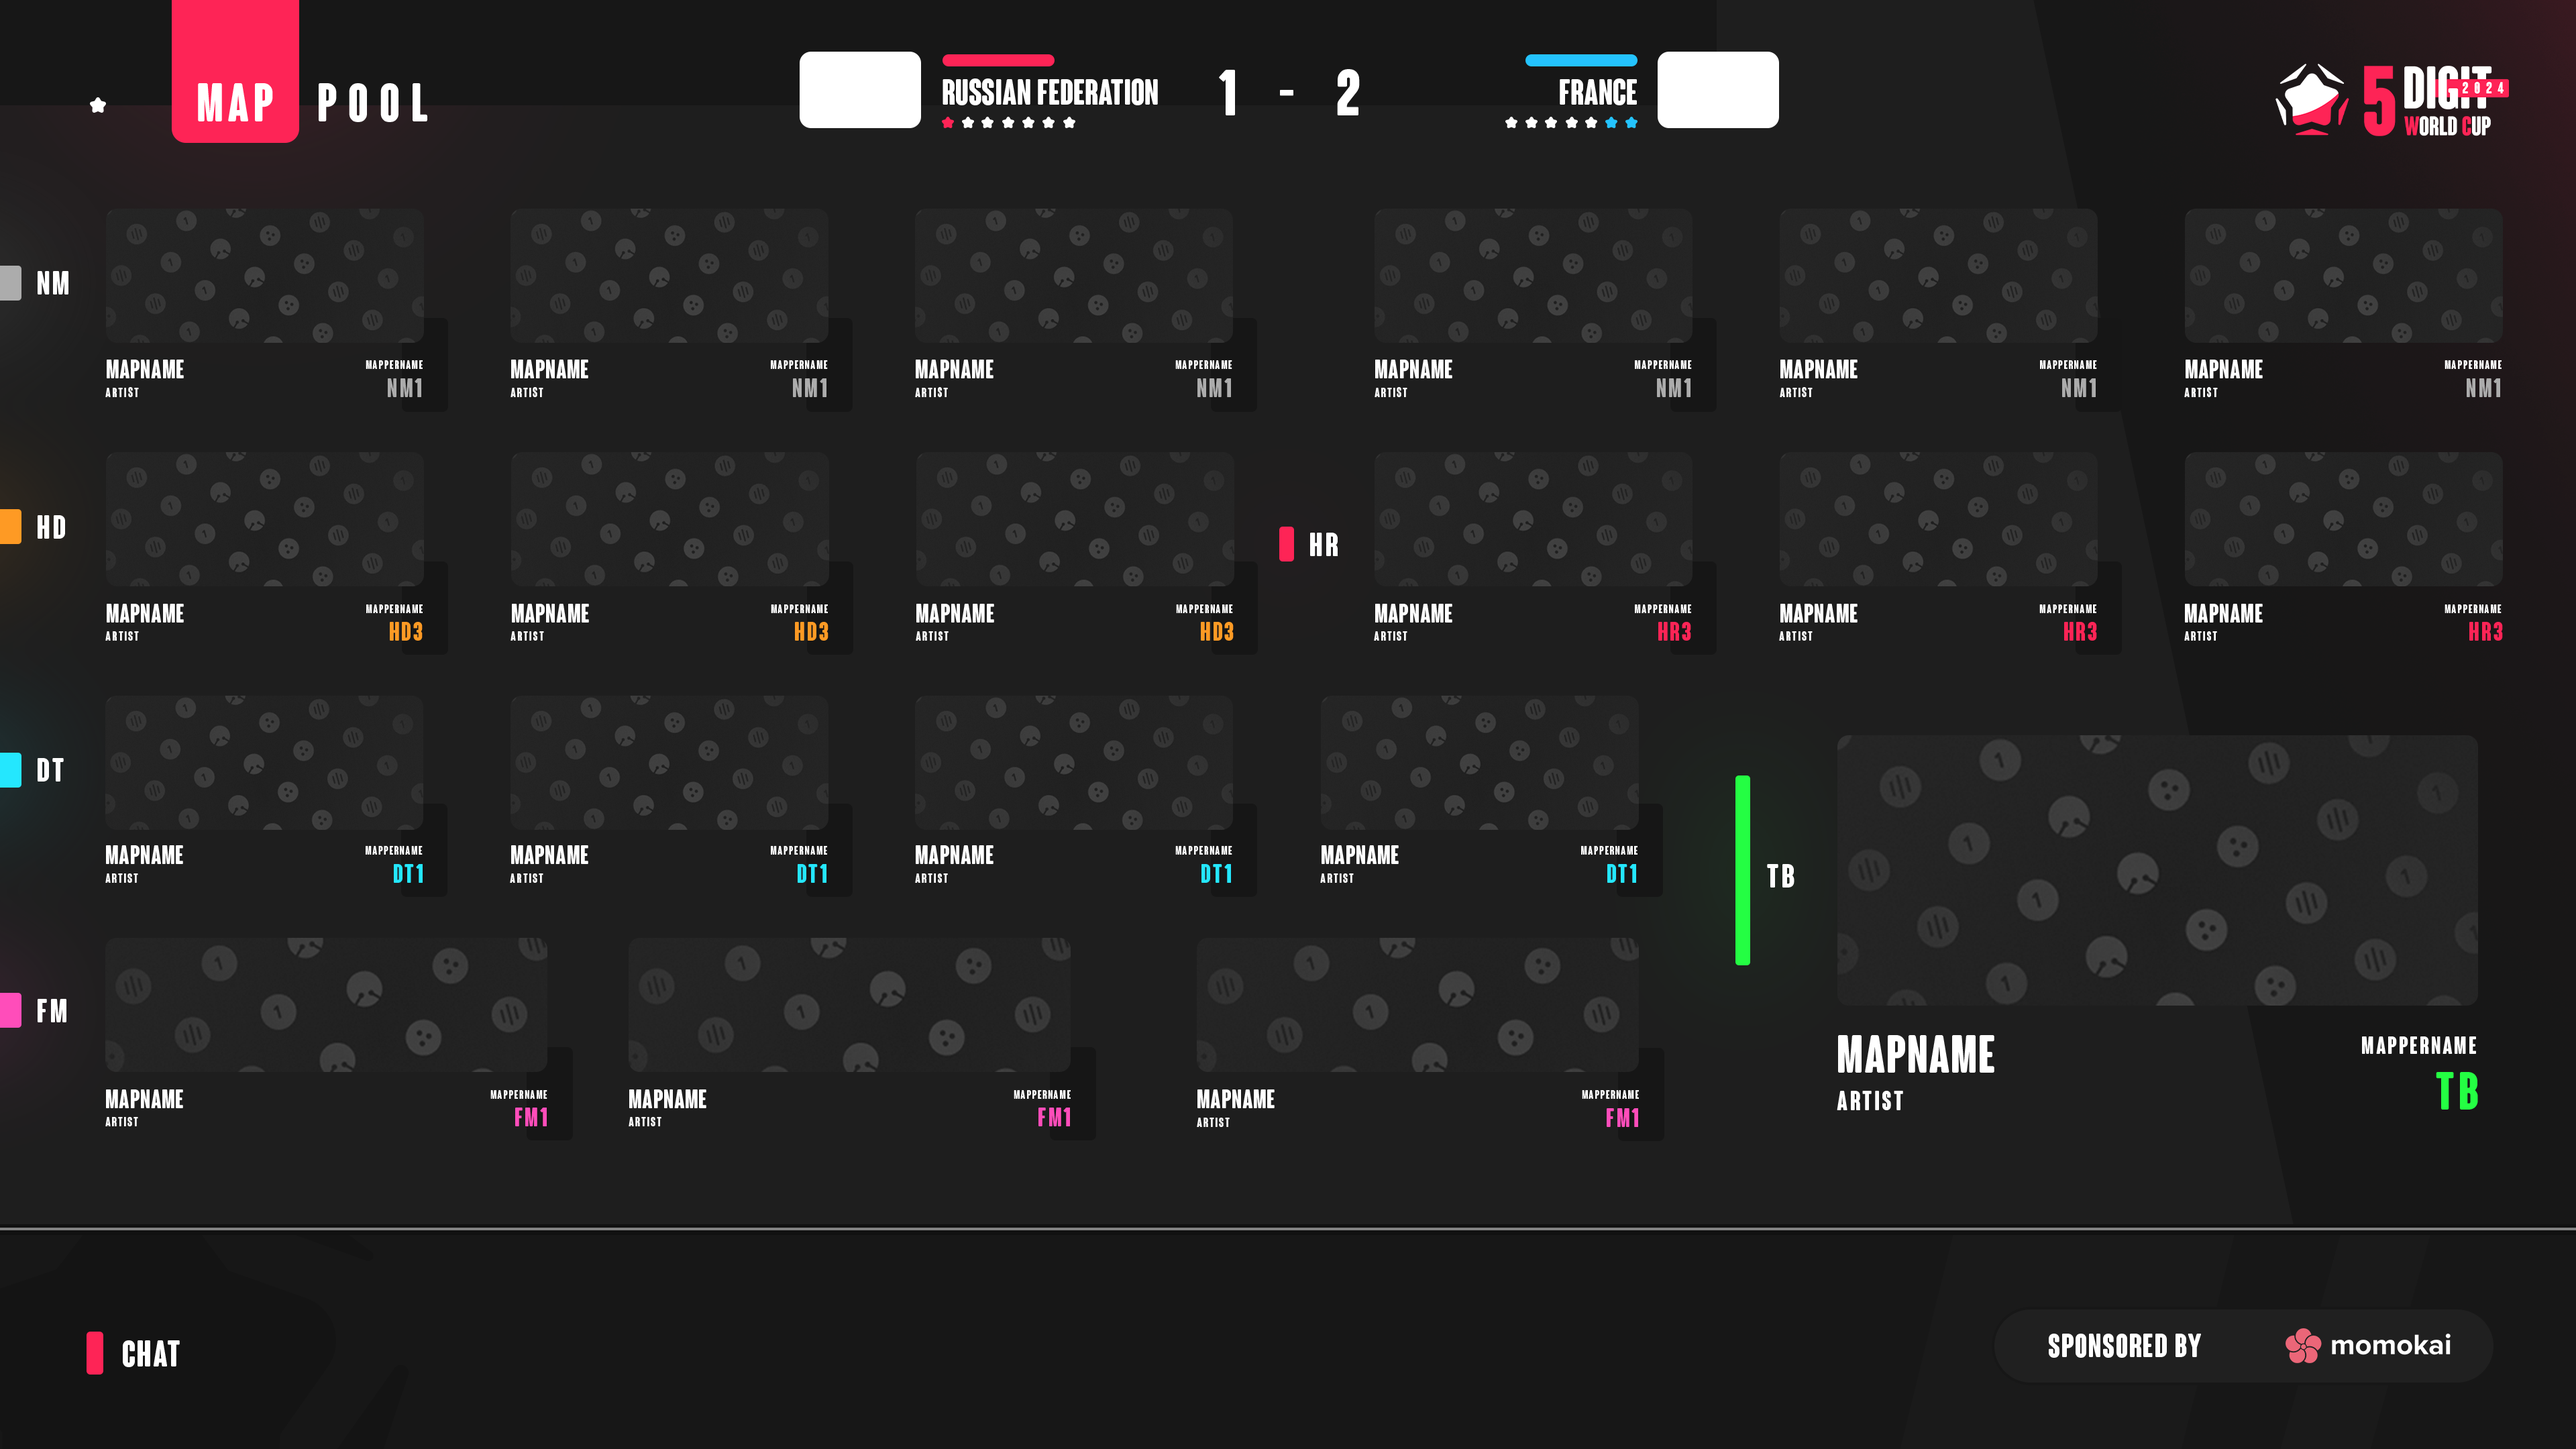
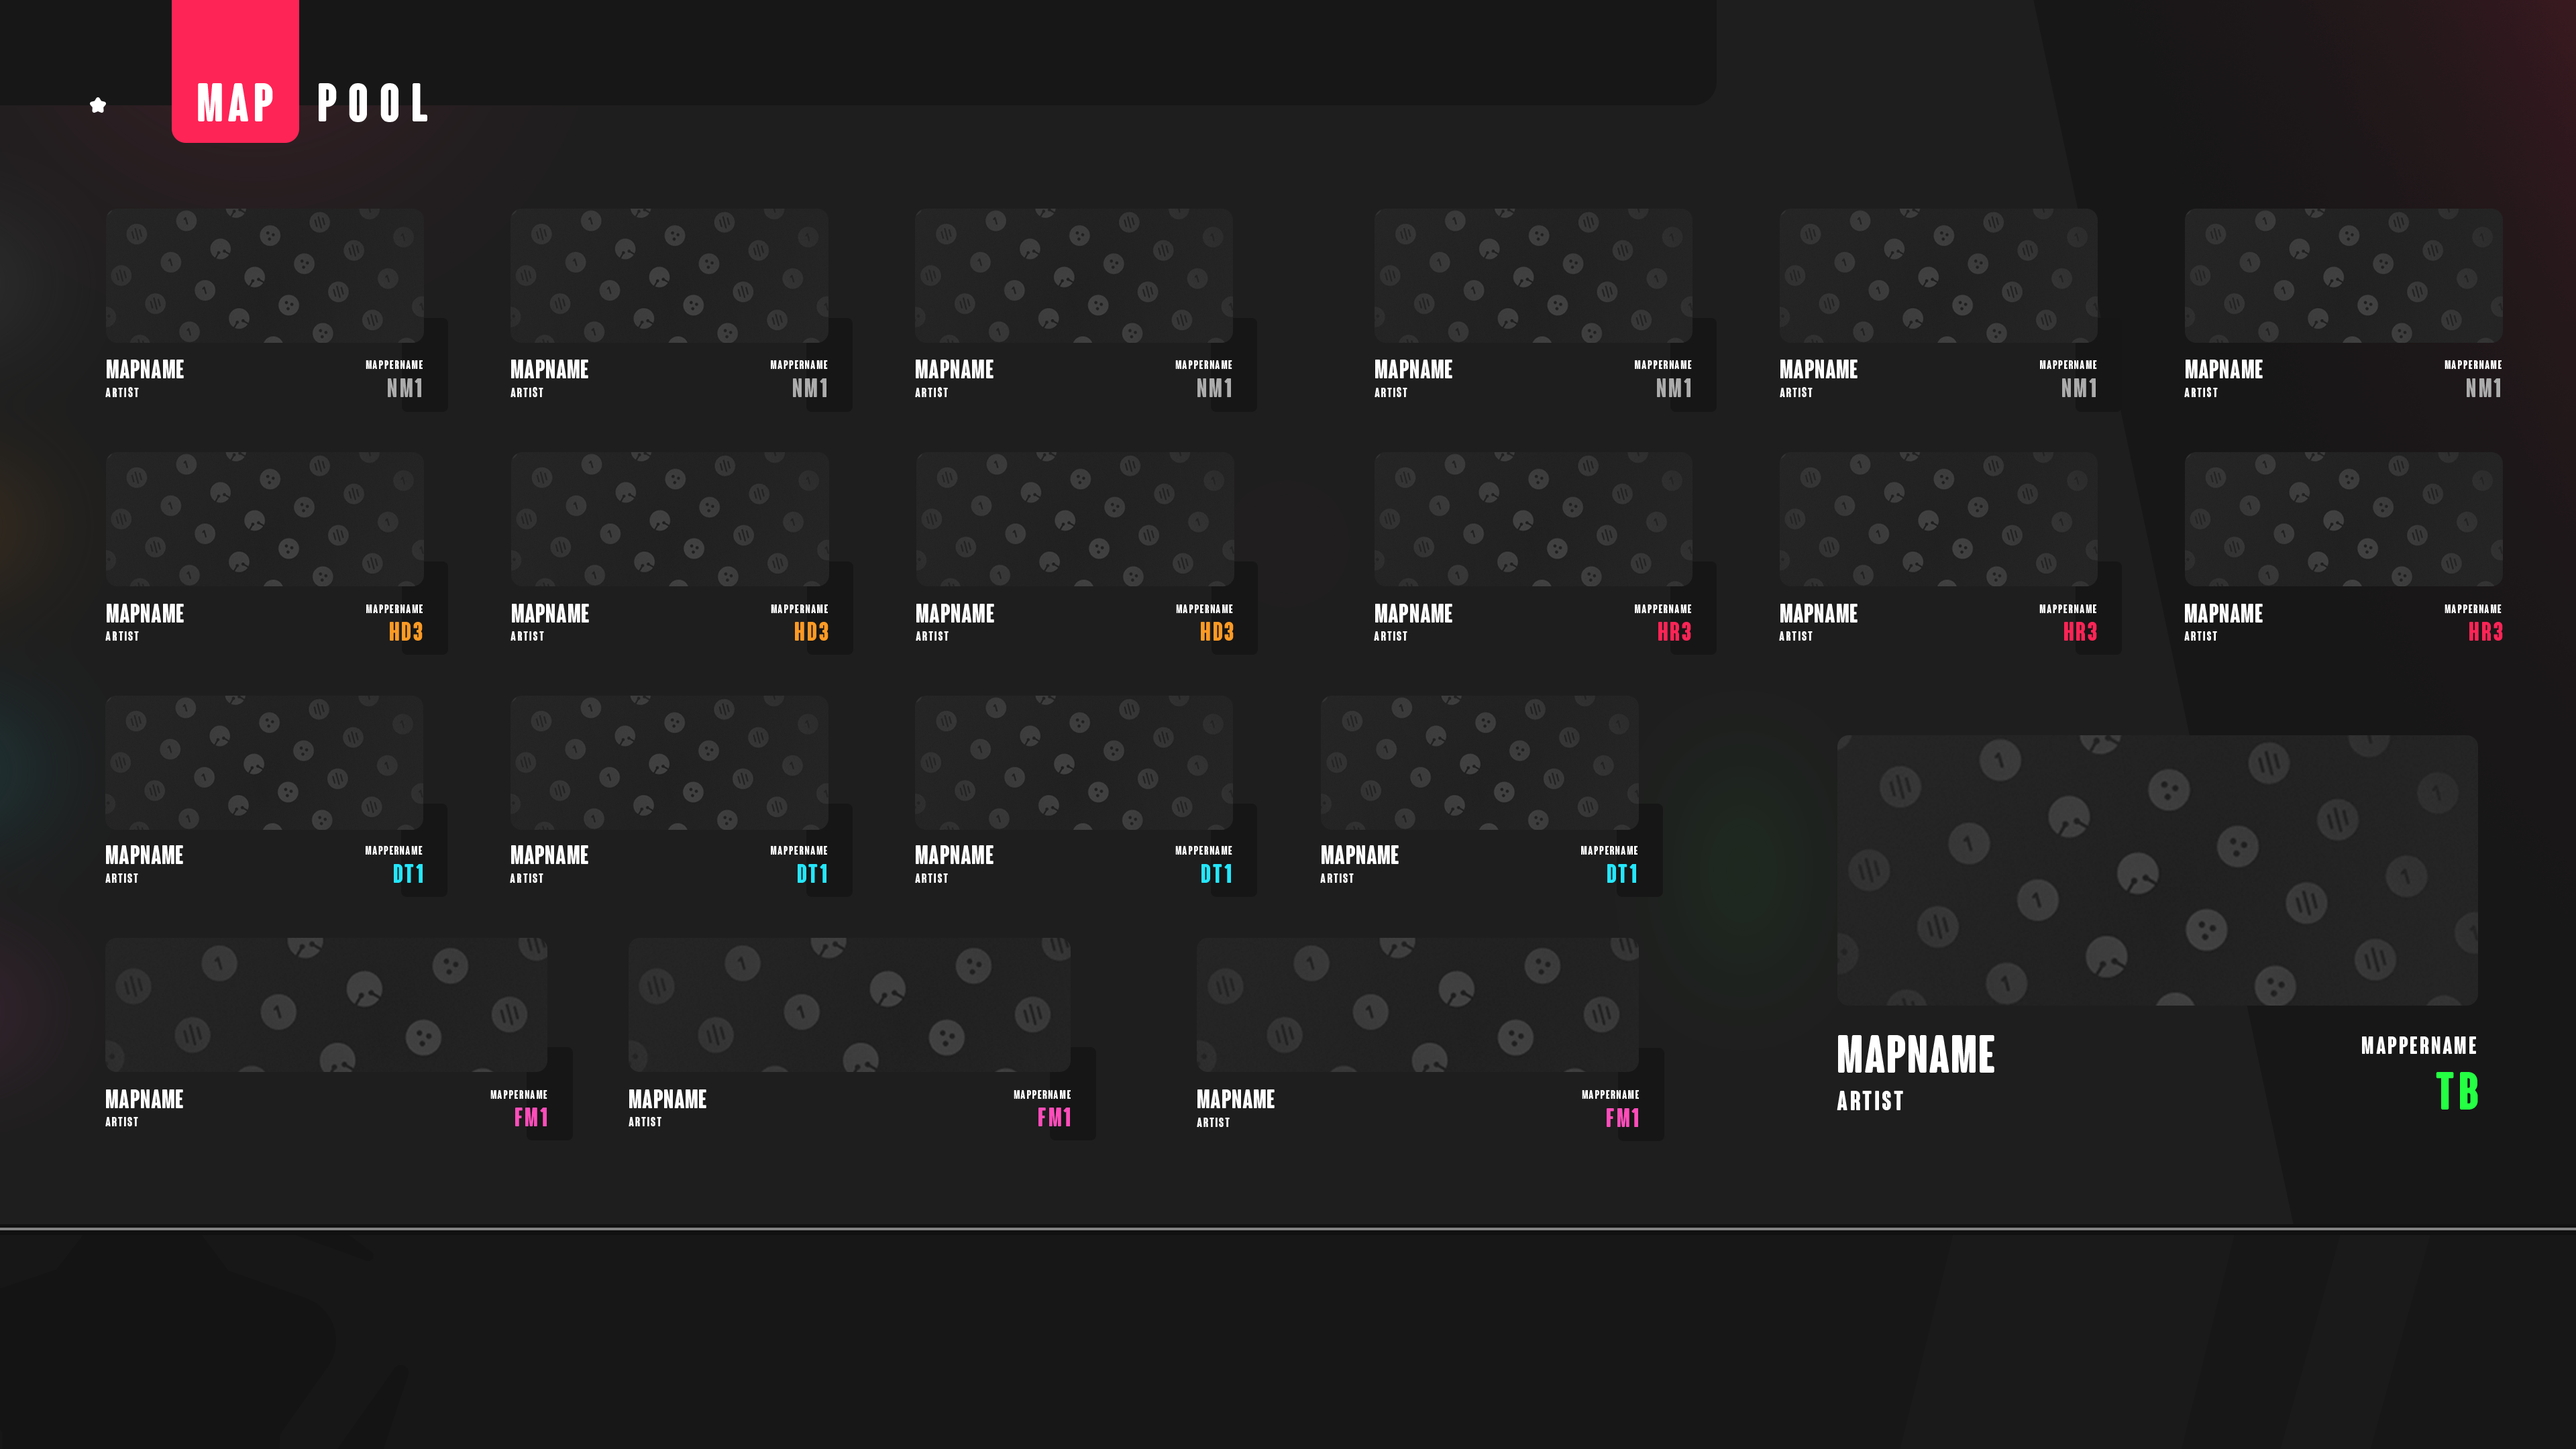
Add mod header and rectangles

diff --git a/pool/css/style.css b/pool/css/style.css
@@ -1,3 +1,12 @@
+:root {
+    --NMColour: rgb(172,172,172);
+    --HDColour: rgb(254,154,36);
+    --HRColour: rgb(254,36,86);
+    --DTColour: rgb(36,231,254);
+    --FMColour: rgb(255,77,186);
+    --TBColour: rgb(36,254,67);
+}
+
 @font-face {
     font-family: "Coluna Rounded";
     src: url("../../shared/fonts/Coluna_Rounded.otf")
@@ -15,17 +24,20 @@
 
 /* ----- TOP SECTION ----- */
 /* --- Team Sections --- */
+/* Team Section */
 .teamSection {
     position: absolute; top: 77px;
     width: 550px; height: 125px;
 }
 #redTeam { left: 1192px; }
 #blueTeam { right: 1192px; }
+/* Team Flag */
 .teamFlag {
     width: 181px; height: 114px;
     border-radius: 15px;
 }
 #blueTeamFlag { position: absolute; top: 0; right: 0; }
+/* Team Bar */
 .teamBar {
     position: absolute; top: 4px;
     width: 168px; height: 18px;
@@ -38,11 +50,13 @@
     right: 212px;
     background-color: rgb(36, 196, 254);
 }
+/* Team Name */
 .teamName {
     position: absolute; top: 32px; 
     font-size: 53px;
     letter-spacing: 0.05px;
 }
+/* Team Stars */
 .teamStars { position: absolute; top: 97px; }
 .teamStars > * { margin-right: 9.5px;}
 #redTeamStars { left: 212px; }
@@ -59,6 +73,66 @@
     width: 343px;
 }
 
+
+/* ----- MAPPOOL SECTION ----- */
+#mappool {
+    position: absolute; top: 300px;
+    width: 100%; height: 1480px;
+}
+/* --- Rectangles ---- */
+#modHeaderRectangles > * { position: absolute; }
+.leftSideModRectangle {
+    left: 0;
+    width: 32px; height: 53px;
+    border-radius: 0px 5px 5px 0px;
+}
+#NMRectangle {
+    top: 95px; 
+    background-color: var(--NMColour);
+}
+#HDRectangle {
+    top: 458px;
+    background-color: var(--HDColour);
+}
+#HRRectangle {
+    top: 485px; left: 1906px;
+    width: 24px; height: 53px;
+    background-color: var(--HRColour);
+    border-radius: 5px;
+}
+#DTRectangle {
+    top: 821px; 
+    background-color: var(--DTColour);
+}
+#FMRectangle {
+    top: 1179px; 
+    background-color: var(--FMColour);
+}
+#TBRectangle {
+    top: 856px; left: 2587px;
+    width: 23px; height: 283px;
+    background-color: var(--TBColour);
+    border-radius: 5px;
+}
+/* --- Header --- */
+#modHeaderNames { font-size: 49px; }
+#modHeaderNames > * {
+    position: absolute;
+    letter-spacing: 3.5px;
+}
+.leftSideModHeader { left: 55px; }
+#NMHeader { top: 95px; }
+#HDHeader { top: 458px; }
+#HRHeader { 
+    top: 485px; 
+    left: 1952px;
+}
+#DTHeader { top: 821px; }
+#FMHeader { top: 1179px; }
+#TBHeader { 
+    top: 979px; 
+    left: 2634px;
+}
 
 /* ----- BOTTOM SECTION ----- */
 #bottom {

diff --git a/pool/index.html b/pool/index.html
@@ -13,27 +13,57 @@
 </head>
 <body>
     <div id="main">
+
         <section id="top">
+
             <div class="teamSection" id="redTeam">
                 <img class="teamFlag" id="redTeamFlag">
                 <div class="teamBar teamLeftDetail" id="redTeamBar"></div>
                 <div class="teamName teamLeftDetail" id="redTeamName">RUSSIAN FEDERATION</div>
                 <div id="redTeamStars"></div>
             </div>
+
             <div id="teamMiddleStar"><span id="teamMiddleStarLeft">1</span><span id="teamMiddleStarDash"> - </span><span id="teamMiddleStarRight"></span>2</div>
+            
             <div class="teamSection" id="blueTeam">
                 <img class="teamFlag" id="blueTeamFlag">
                 <div class="teamBar teamRightDetail" id="blueTeamBar"></div>
                 <div class="teamName teamRightDetail" id="blueTeamName">FRANCE</div>
                 <div id="blueTeamStars"></div>
             </div>
+
             <img id="logo" src="../shared/static/logo.png">`
         </section>
+
+        <section id="mappool">
+
+            <div id="modHeaderContainer">
+                <div id="modHeaderRectangles">
+                    <div class="leftSideModRectangle" id="NMRectangle"></div>
+                    <div class="leftSideModRectangle" id="HDRectangle"></div>
+                    <div id="HRRectangle"></div>
+                    <div class="leftSideModRectangle" id="DTRectangle"></div>
+                    <div class="leftSideModRectangle" id="FMRectangle"></div>
+                    <div id="TBRectangle"></div>
+                </div>
+                <div id="modHeaderNames">
+                    <div class="leftSideModHeader" id="NMHeader">NM</div>
+                    <div class="leftSideModHeader" id="HDHeader">HD</div>
+                    <div id="HRHeader">HR</div>
+                    <div class="leftSideModHeader" id="DTHeader">DT</div>
+                    <div class="leftSideModHeader" id="FMHeader">FM</div>
+                    <div id="TBHeader">TB</div>
+                </div>
+            </div>
+
+        </section>
+
         <section id="bottom">
             <div id="line"></div>
             <div id="chatRectangle"></div>
             <div id="chatText">CHAT</div>
             <div id="chatContainer"></div>
+
             <div id="sponsoredByContainer">
                 <div id="sponsoredByText">SPONSORED BY</div>
                 <div id="sponsors">
